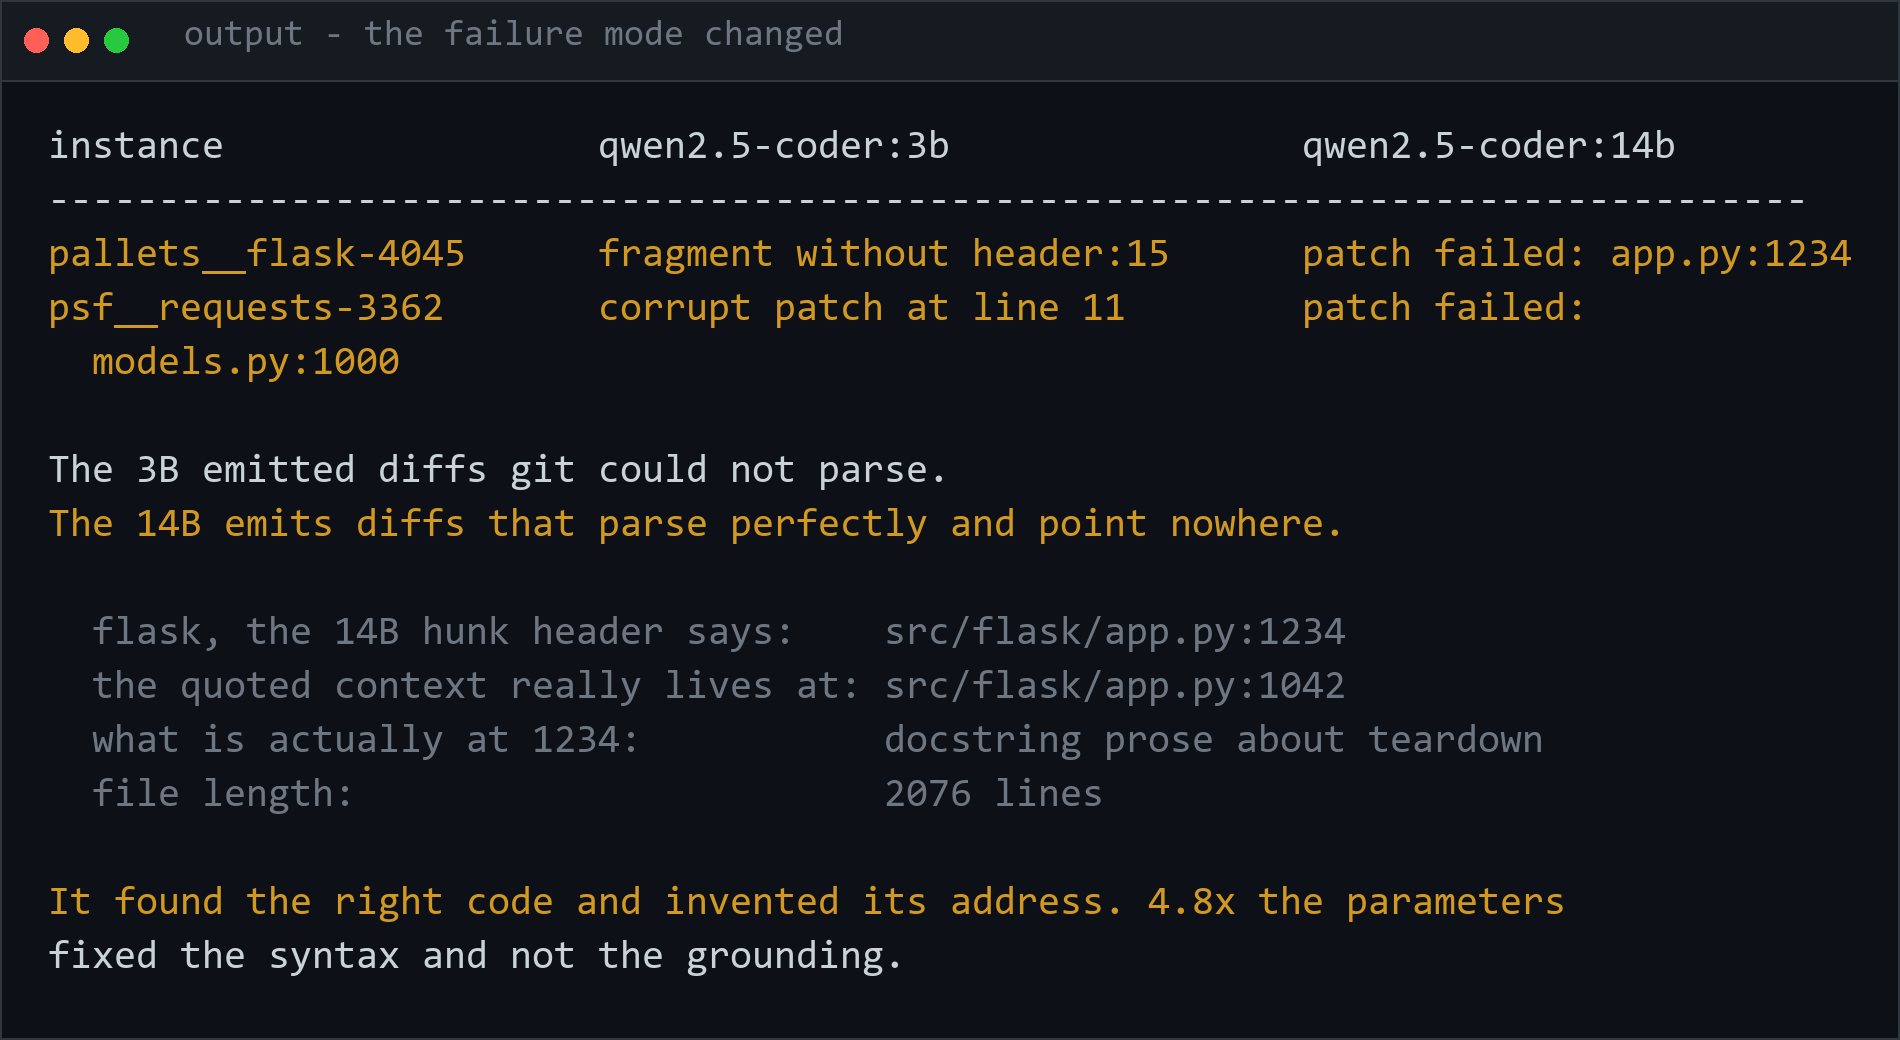
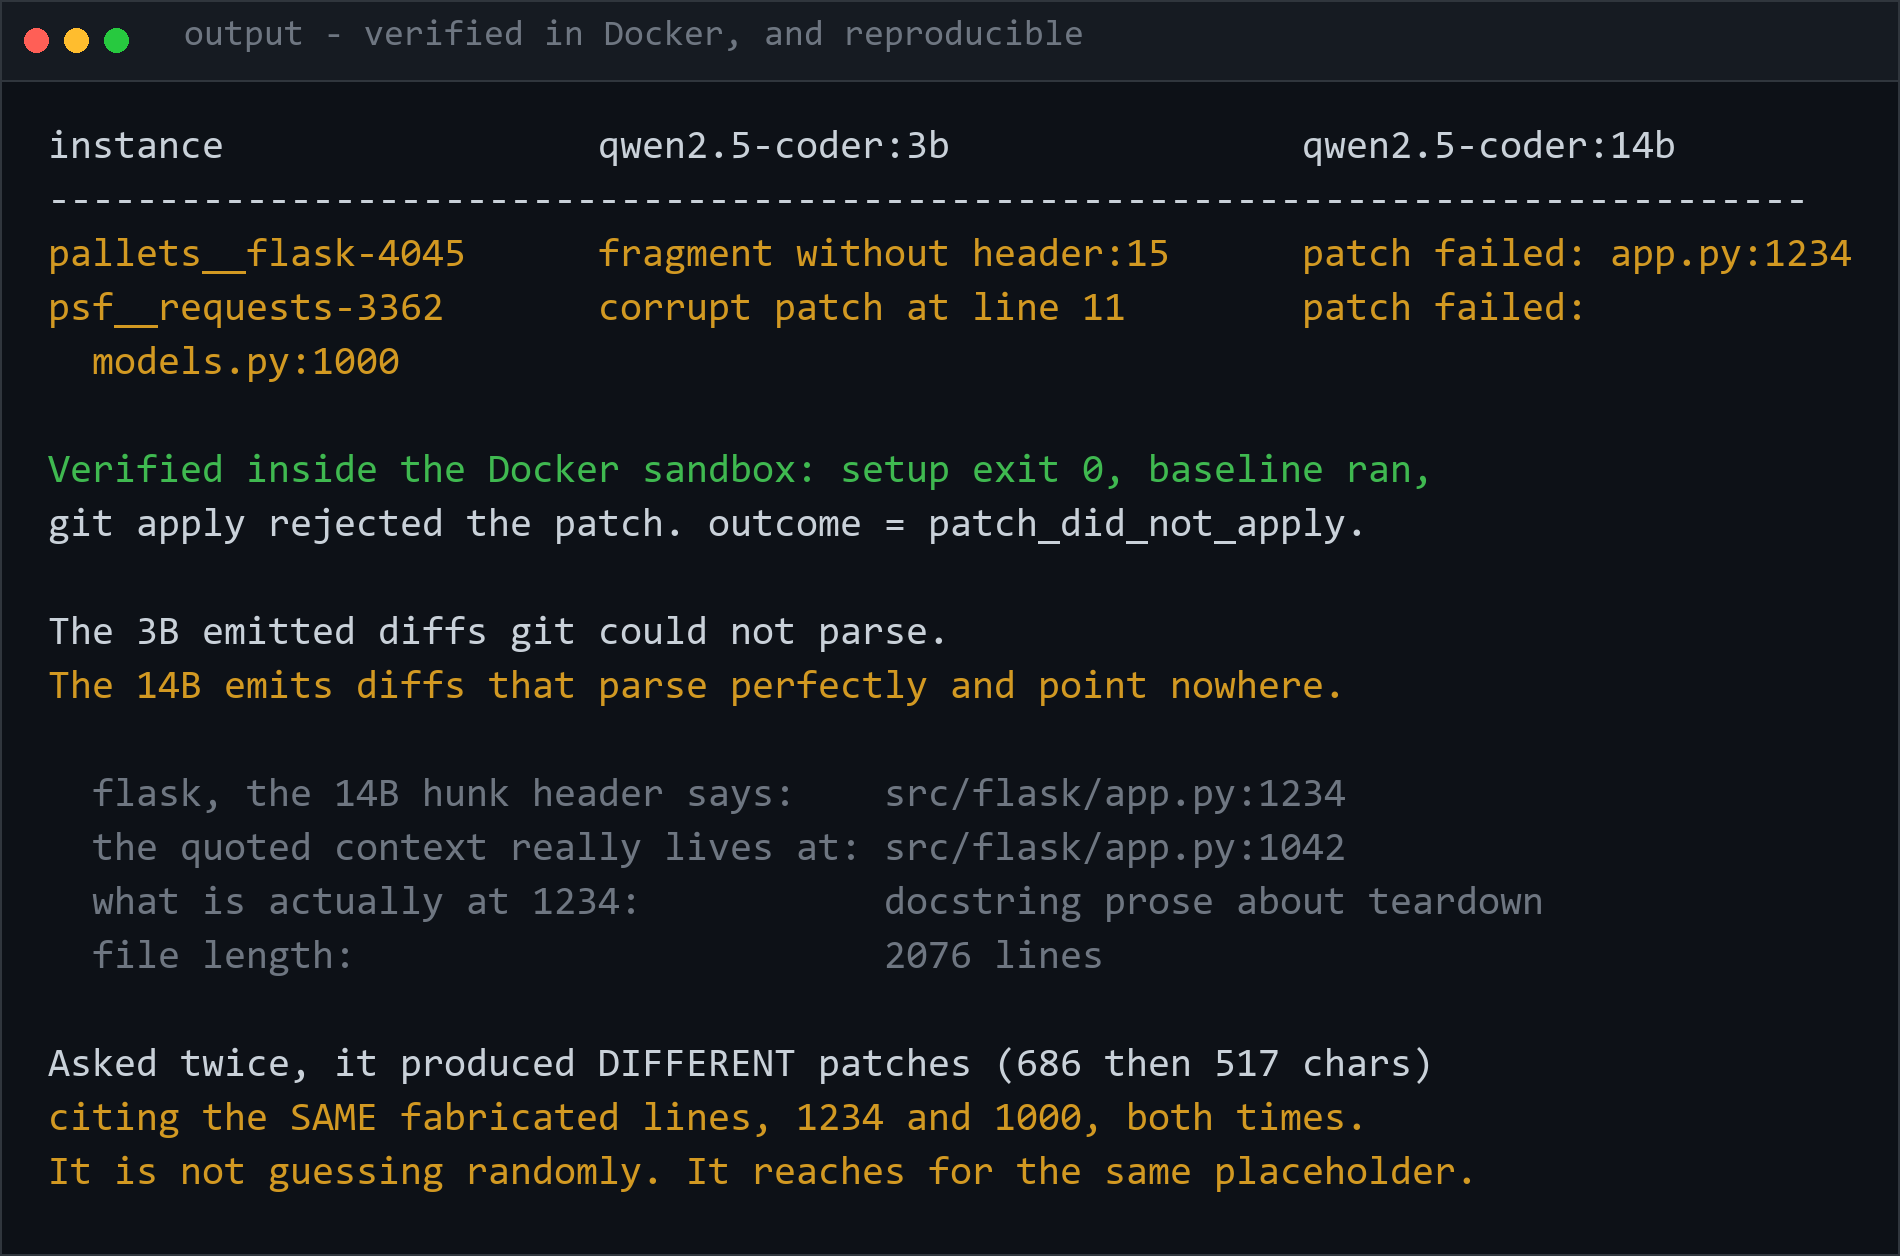
Project 04: obtain the Docker verdict, and make the sandbox survive a slow link
The earlier run recorded setup_failed on both instances because pip inside the
container could not reach the network while a model download saturated it.
That is an infrastructure failure, not a model result. Re-run on a clear link:

  setup exit 0, baseline ran, git apply rejected -> patch_did_not_apply

So the 14B comparison is now verified end to end, not inferred from a
standalone git apply.

It also reproduces. Asked twice, the model produced different patches - 686
then 517 chars - citing the same fabricated line numbers, app.py:1234 and
models.py:1000, both times. It is not drawing a random wrong number; it
reaches for the same round placeholder.

sandbox_runner.py: pip now gets 10 retries and a 120s timeout, and the setup
step - the only one touching the network - gets 30 minutes. A slow link now
makes the sandbox wait rather than manufacture a false negative that looks
like a result.

diff --git a/projects/04_swebench_coding_agent/sandbox_runner.py b/projects/04_swebench_coding_agent/sandbox_runner.py
@@ -147,14 +147,26 @@ def run_instance(
     }
 
     # Step 1: apply the official test patch + install the package.
+    #
+    # pip's defaults give up quickly on a slow link, and when it does the whole
+    # run is recorded as `setup_failed` -- which looks like a result and is not
+    # one. A 2026-09-16 run lost both instances this way while a large model
+    # download was saturating the connection ("This is an issue with network
+    # connectivity, not pip"). These settings make the sandbox wait rather than
+    # manufacture a false negative.
+    pip_net = (
+        "PIP_RETRIES=10 PIP_TIMEOUT=120 PIP_DEFAULT_TIMEOUT=120 "
+        "PIP_DISABLE_PIP_VERSION_CHECK=1"
+    )
     setup_script = (
         "set -e\n"
         "git config --global --add safe.directory /workspace\n"
         "git apply --whitespace=fix _test.diff\n"
-        f"pip install -e . -q {install_extra}\n"
-        "pip install pytest -q\n"
+        f"{pip_net} pip install -e . -q {install_extra}\n"
+        f"{pip_net} pip install pytest -q\n"
     )
-    setup = _docker_run(eval_dir, setup_script, timeout=timeout)
+    # Setup is the only step that touches the network, so it gets the most room.
+    setup = _docker_run(eval_dir, setup_script, timeout=max(timeout, 1800))
     result["setup"] = {
         "exit_code": setup.returncode,
         "stdout_tail": setup.stdout[-3000:],

diff --git a/projects/04_swebench_coding_agent/README.md b/projects/04_swebench_coding_agent/README.md
@@ -119,14 +119,29 @@ That is arguably the worse failure. A corrupt diff is rejected loudly by any
 parser. A well-formed diff with fabricated line numbers passes every syntactic
 check and fails only against the real repository.
 
-⚠ **This comparison covers `git apply` only.** The Docker sandbox could not be
-built during the re-run — `pip` inside the container failed to download
-`pygments` (*"This is an issue with network connectivity, not pip"*) because a
-concurrent model download was saturating the link. So **there is no
-FAIL_TO_PASS/PASS_TO_PASS verdict for the 14B**, and none is claimed. A patch
-that does not apply cannot be tested anyway, but the sandwiched question — *would
-it have fixed the bug?* — is unanswered. Reproduce with `python apply_check.py`,
-which needs no network and no Docker.
+**Verified inside the sandbox, and reproducible.** The full Docker pipeline ran
+to completion for both instances: `setup` exit 0 (test patch applied, `pip
+install -e .` succeeded), baseline tests ran, then `git apply` of the model's
+patch was rejected with exit 1 — `error: patch failed: src/flask/app.py:1234`.
+`outcome: patch_did_not_apply`, the same verdict class as the 3B, reached for a
+different reason.
+
+The reproducibility is the striking part. The model was asked twice, on separate
+runs, and produced **different patches** — 686 chars, then 517 — that cite **the
+same fabricated line numbers**: `app.py:1234` and `models.py:1000` both times.
+It is not drawing a random wrong number; it reaches for the same round
+placeholder.
+
+ℹ An earlier attempt recorded `setup_failed` on both instances because `pip`
+inside the container could not reach the network (*"This is an issue with
+network connectivity, not pip"*) while a large model download saturated the
+link. That is an infrastructure failure, not a model result, and was never
+reported as one. `sandbox_runner.py` now gives pip 10 retries and a 120s
+timeout, and the setup step 30 minutes, so a slow link makes the sandbox wait
+rather than manufacture a false negative.
+
+`python apply_check.py` reproduces the apply-level comparison alone, without
+Docker or the network.
 
 ## Input
 

diff --git a/README.md b/README.md
@@ -140,9 +140,10 @@ Project 04 is the third shape: the 3B emitted diffs `git` could not parse, the
 14B emits diffs that parse perfectly and cite line 1234 for code that lives at
 line 1042. Scaling fixed the syntax and not the grounding.
 
-⚠ Project 04 has **no FAIL_TO_PASS verdict** for the 14B — its Docker sandbox
-could not reach the network mid-run. The `git apply` comparison stands; the
-"would it have fixed the bug" question does not.
+Project 04's verdict is verified inside the Docker sandbox (`setup` exit 0,
+baseline run, `git apply` rejected) and reproduces: asked twice, the model
+emitted **different patches citing the same fabricated line numbers**, 1234 and
+1000 both times.
 
 ---
 
